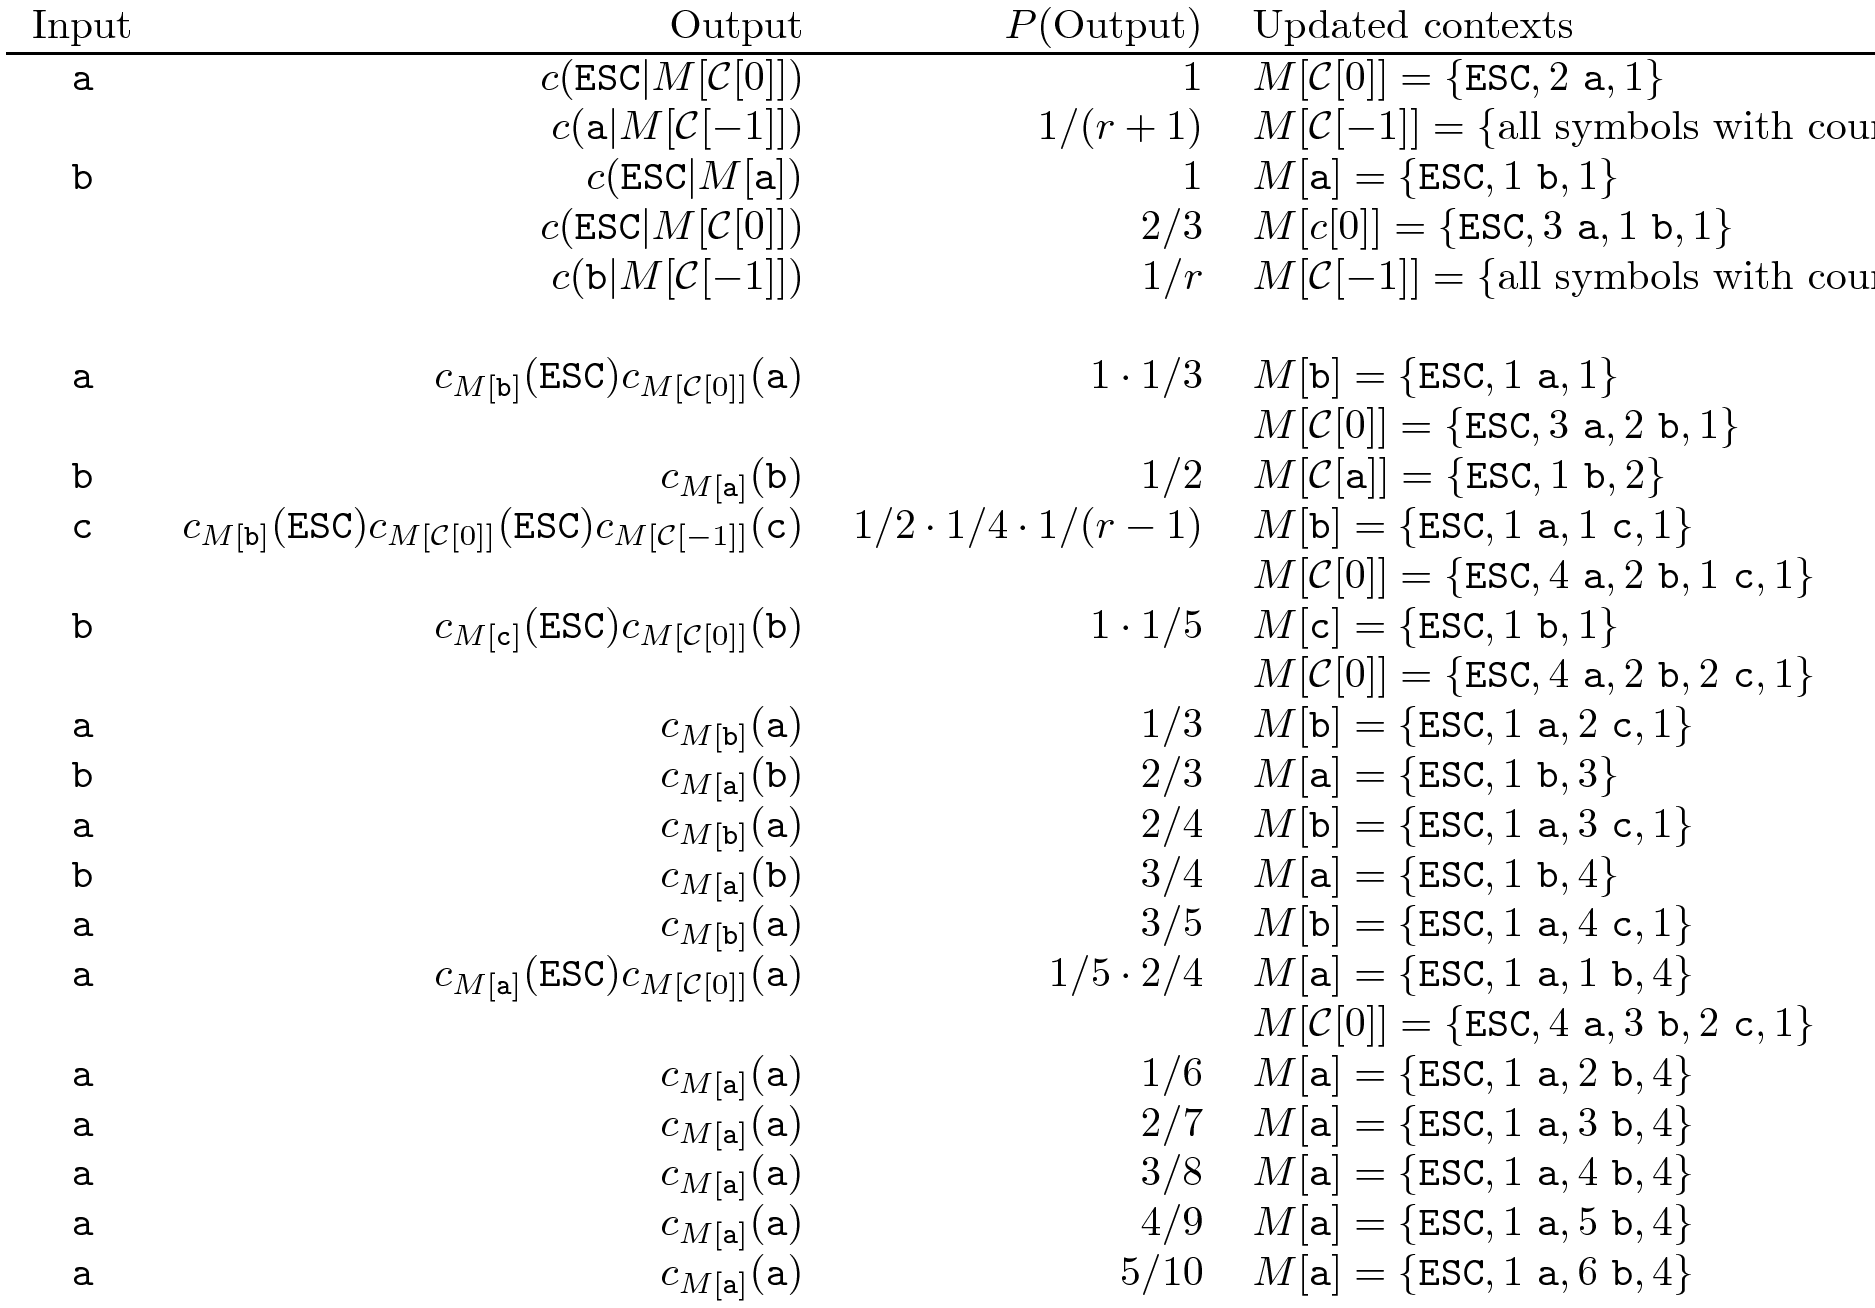
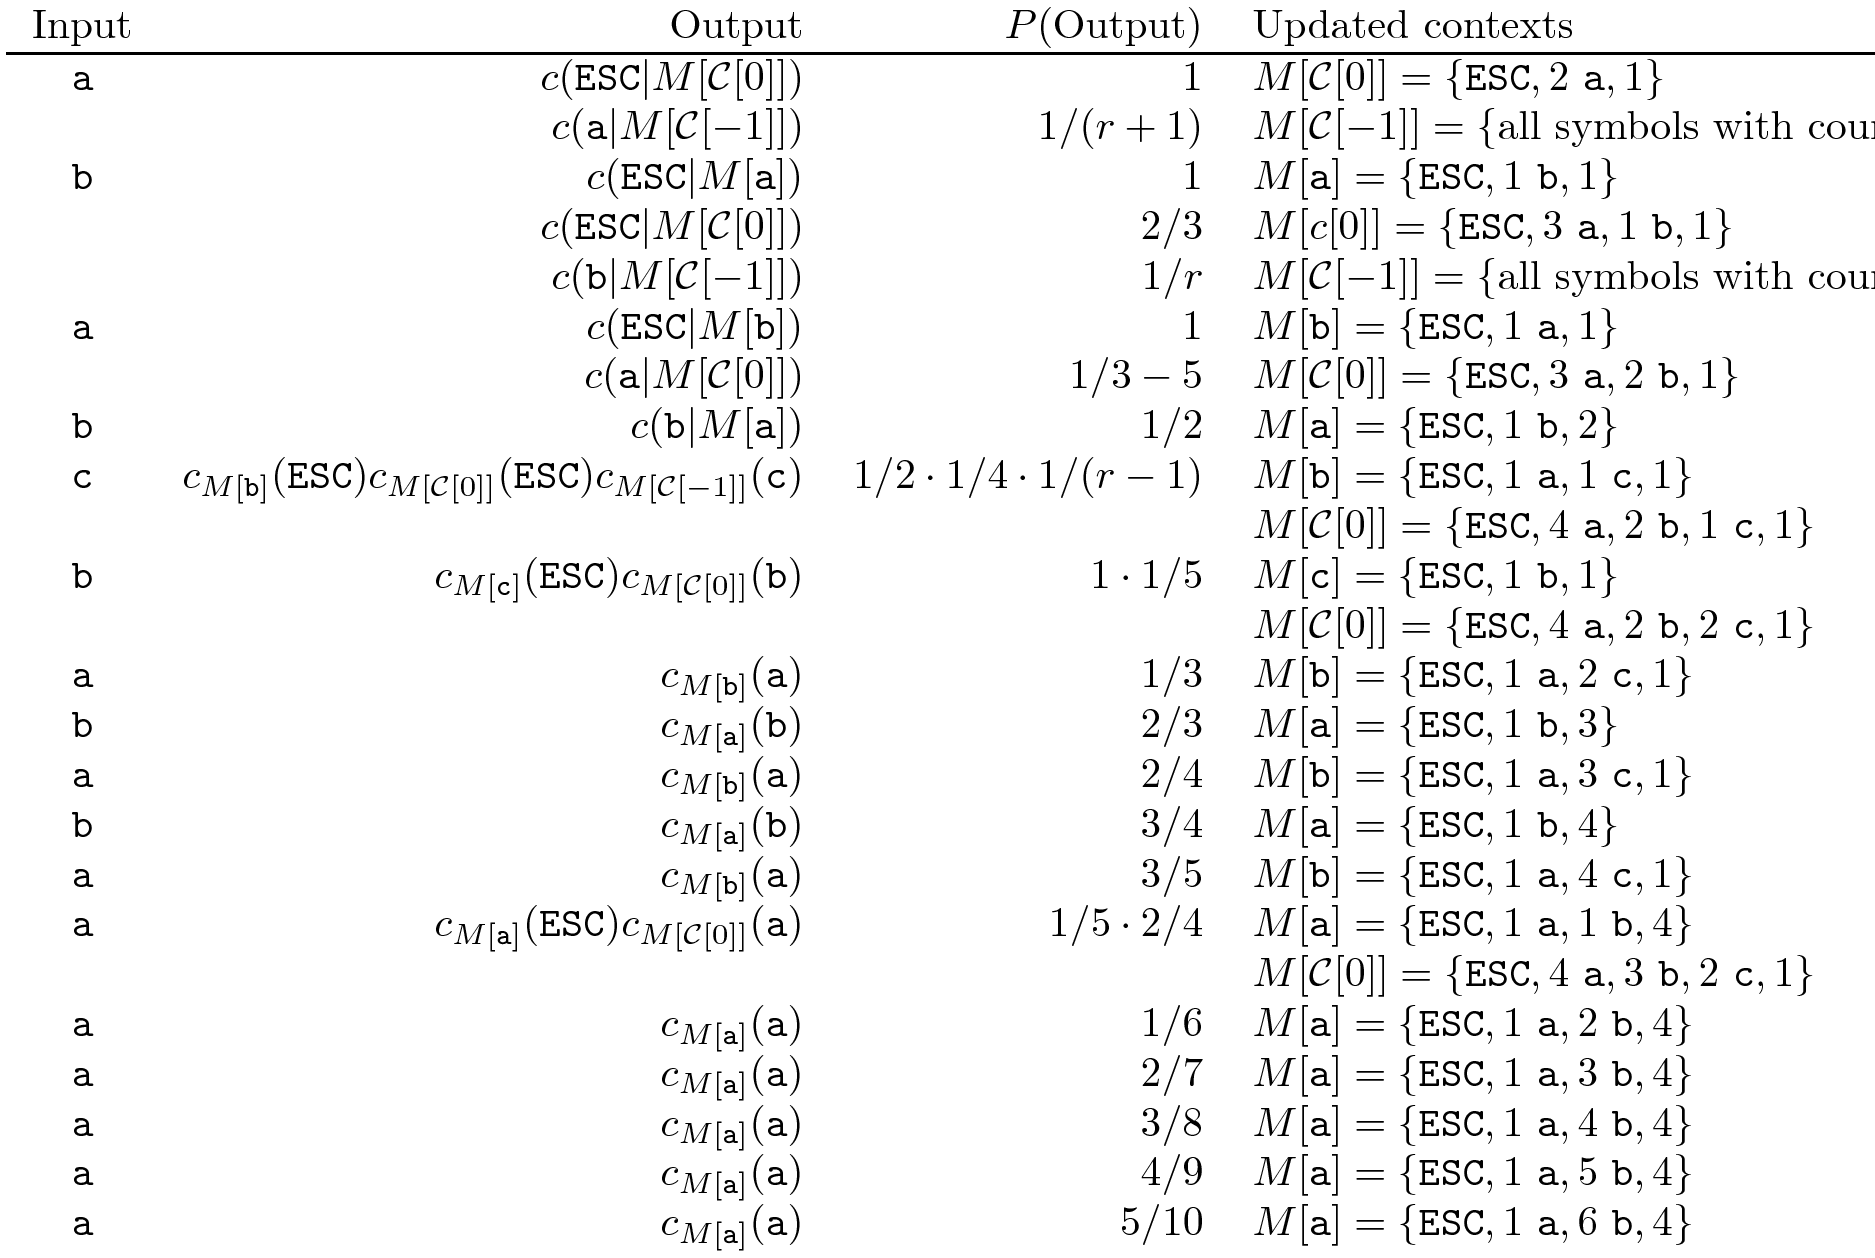
.

diff --git a/data/PPM_example.tex b/data/PPM_example.tex
@@ -9,11 +9,10 @@
   ~ & $c(\mathtt{a}|M[{\cal C}[-1]])$ & $1/(r+1)$ & $M[{\cal C}[-1]]=\{\text{all symbols with count 1}\}$\\
   {\tt b} & $c(\mathtt{ESC}|M[\texttt{a}])$ & $1$ & $M[\mathtt{a}]=\{\mathtt{ESC},1~\mathtt{b},1\}$\\
   ~ & $c(\mathtt{ESC}|M[{\cal C}[0]])$ & $2/3$ & $M[c[0]]=\{\mathtt{ESC},3~\mathtt{a},1~\mathtt{b},1\}$\\
-  ~ & $c(\mathtt{b}|M[{\cal C}[-1]])$ & $1/r$ & $M[{\cal C}[-1]]=\{\text{all symbols with count 1}\}
-    ~       & & & \\
-    {\tt a} & $c_{M[\texttt{b}]}(\mathtt{ESC})c_{M[{\cal C}[0]]}(\mathtt a)$ & $1\cdot 1/3$ & $M[\mathtt{b}]=\{\mathtt{ESC},1~\mathtt{a},1\}$\\
-    ~       & & & $M[{\cal C}[0]]=\{\mathtt{ESC},3~\mathtt{a},2~\mathtt{b},1\}$\\
-    {\tt b} & $c_{M[\mathtt{a}]}(\mathtt b)$ & $1/2$ & $M[{\cal C}[\mathtt{a}]]=\{\mathtt{ESC},1~\mathtt{b},2\}$\\
+  ~ & $c(\mathtt{b}|M[{\cal C}[-1]])$ & $1/r$ & $M[{\cal C}[-1]]=\{\text{all symbols with count 1}\}$ \\
+  {\tt a} & $c(\mathtt{ESC}|M[\texttt{b}])$ & $1$ & $M[\mathtt{b}]=\{\mathtt{ESC},1~\mathtt{a},1\}$\\
+ ~ & $c(\mathtt a|M[{\cal C}[0]])$ & $1/3-5$ & $M[{\cal C}[0]]=\{\mathtt{ESC},3~\mathtt{a},2~\mathtt{b},1\}$\\
+    {\tt b} & $c(\mathtt b|M[\mathtt{a}])$ & $1/2$ & $M[\mathtt{a}]=\{\mathtt{ESC},1~\mathtt{b},2\}$\\
     {\tt c} & $c_{M[\mathtt{b}]}(\mathtt{ESC})c_{M[{\cal C}[0]]}(\mathtt{ESC})c_{M[{\cal C}[-1]]}(\mathtt c)$ & $1/2\cdot 1/4\cdot 1/(r-1)$ & $M[\mathtt{b}]=\{\mathtt{ESC},1~\mathtt{a},1~\mathtt{c},1\}$\\
     ~       & & & $M[{\cal C}[0]]=\{\mathtt{ESC},4~\mathtt{a},2~\mathtt{b},1~\mathtt{c},1\}$\\
     {\tt b} & $c_{M[\texttt{c}]}(\mathtt{ESC})c_{M[{\cal C}[0]]}(\mathtt b)$ & $1\cdot 1/5$ & $M[\mathtt{c}]=\{\mathtt{ESC},1~\mathtt{b},1\}$\\
